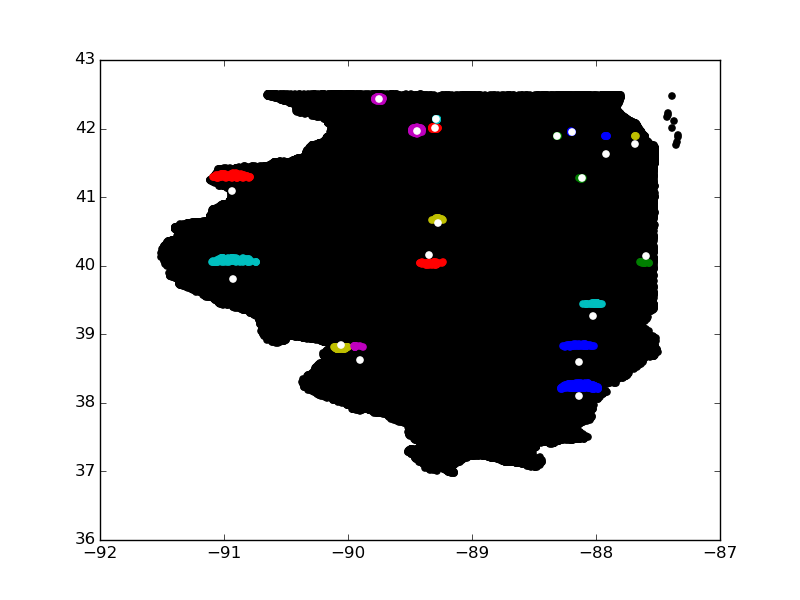
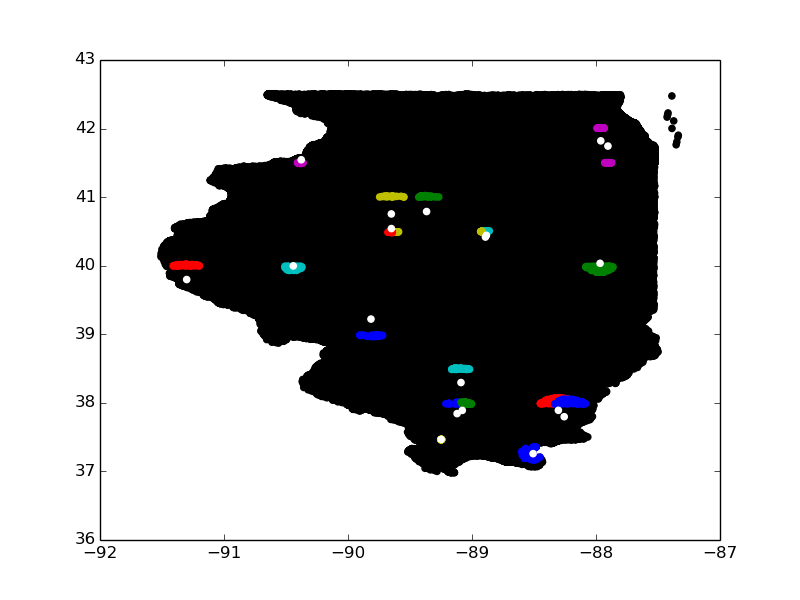
still black bars

diff --git a/grid_search.py b/grid_search.py
@@ -2,11 +2,13 @@ import district_class as dc
 import numpy as np
 import math
 from grid import build_grid, hash_map_index
+from centroids import find_random_centroids
 import heapq 
 import matplotlib.pyplot as plt
 #import matplotlib as plt
 import itertools
 
+'''
 centroid_l = [[5,+39.810985,-090.925895,6],
 [60505,+41.781883,-087.684522,111],
 [120990,+41.952518,-088.196756,43],
@@ -26,10 +28,14 @@ centroid_l = [[5,+39.810985,-090.925895,6],
 [344276,+41.624047,-087.923115,170],
 [351295,+41.284644,-088.114612,114],
 [365115,+40.629956,-089.275667,12]]
+'''
+filename= "IL.csv"
+number = 19
+global_epsilon = 500
 
+centroid_l = find_random_centroids(filename, number)
 Districts = dc.create_districts(centroid_l, 1)
-Grid, data, dim, lat, lon = build_grid("IL.csv")
-global_epsilon = 10000
+Grid, data, dim, lat, lon = build_grid(filename)
 
 def euclidean_norm(centroid, block):
 	distance = math.sqrt((centroid[1]-block[1])**2+(centroid[2]-block[2])**2)
@@ -101,14 +107,16 @@ def graph(Districts):
 		for block in district.blocks:
 			plt.scatter(block[2], block[1], color=c)
 
-	plt.scatter([-090.925895, -087.684522, 
-		-088.196756, -088.310647, -089.342779, -090.056454, -090.936430, -089.287520, 
-		-088.026622, -089.297788, -089.443183, -088.139386, -089.901350, -089.750755, 
-		-087.594293, -088.133699, -087.923115, -088.114612, -089.275667], [39.810985, 41.781883, 41.952518, 41.884529, 40.159843, 38.837947, 41.094140, 
-		42.136809, 39.265350, 42.008476, 41.971581, 38.591100, 38.621083, 42.431654, 
-		40.144836, 38.104917, 41.624047, 41.284644, 40.629956], color='w')#, marker='o')
+	xx = []
+	yy = []
+	for c in centroid_l:
+		xx.append(c[2])
+		yy.append(c[1])
+
+	plt.scatter(xx, yy, color='w')#, marker='o')
 	plt.savefig(str(global_epsilon)+".png")
 
+	'''
 	x_size = (lon[1] - lon[0]) / dim[0]
 	y_size = (lat[1] - lat[0]) / dim[1]
 
@@ -121,7 +129,7 @@ def graph(Districts):
 		loc = lat[0] + c*x_size
 		
 		plt.axhline(y=loc)
-
+	'''
 
 	plt.show()
 
@@ -131,5 +139,5 @@ def graph(Districts):
 #plt.savefig("raw.png")
 
 
-searching_all("IL.csv")
+searching_all(filename)
 graph(Districts)

diff --git a/centroids.py b/centroids.py
@@ -2,11 +2,20 @@ import csv
 import random
 
 def find_random_centroids(filename, number):
-	with open(filename, 'r') as f:
-		reader = csv.reader(f)
-		random_blocks = random.sample(list(reader), number)
-		centroid_list = list(random_blocks)
-	return centroid_list
+    with open(filename, 'r') as f:
+        reader = csv.reader(f)
+        random_blocks = random.sample(list(reader), number)
+        print(random_blocks)
+        centroid_list = list(random_blocks)
+        centroids = []
+        for c in centroid_list:
+            formatted_c = []
+            for d in c:
+                formatted_c.append(float(d))
+            centroids.append(formatted_c)
+
+        #centroid_list = [float(i) for i in centroid_list]
+    return centroids
 
 def format_centroids(centroid_list):
 	for item in centroid_list:
